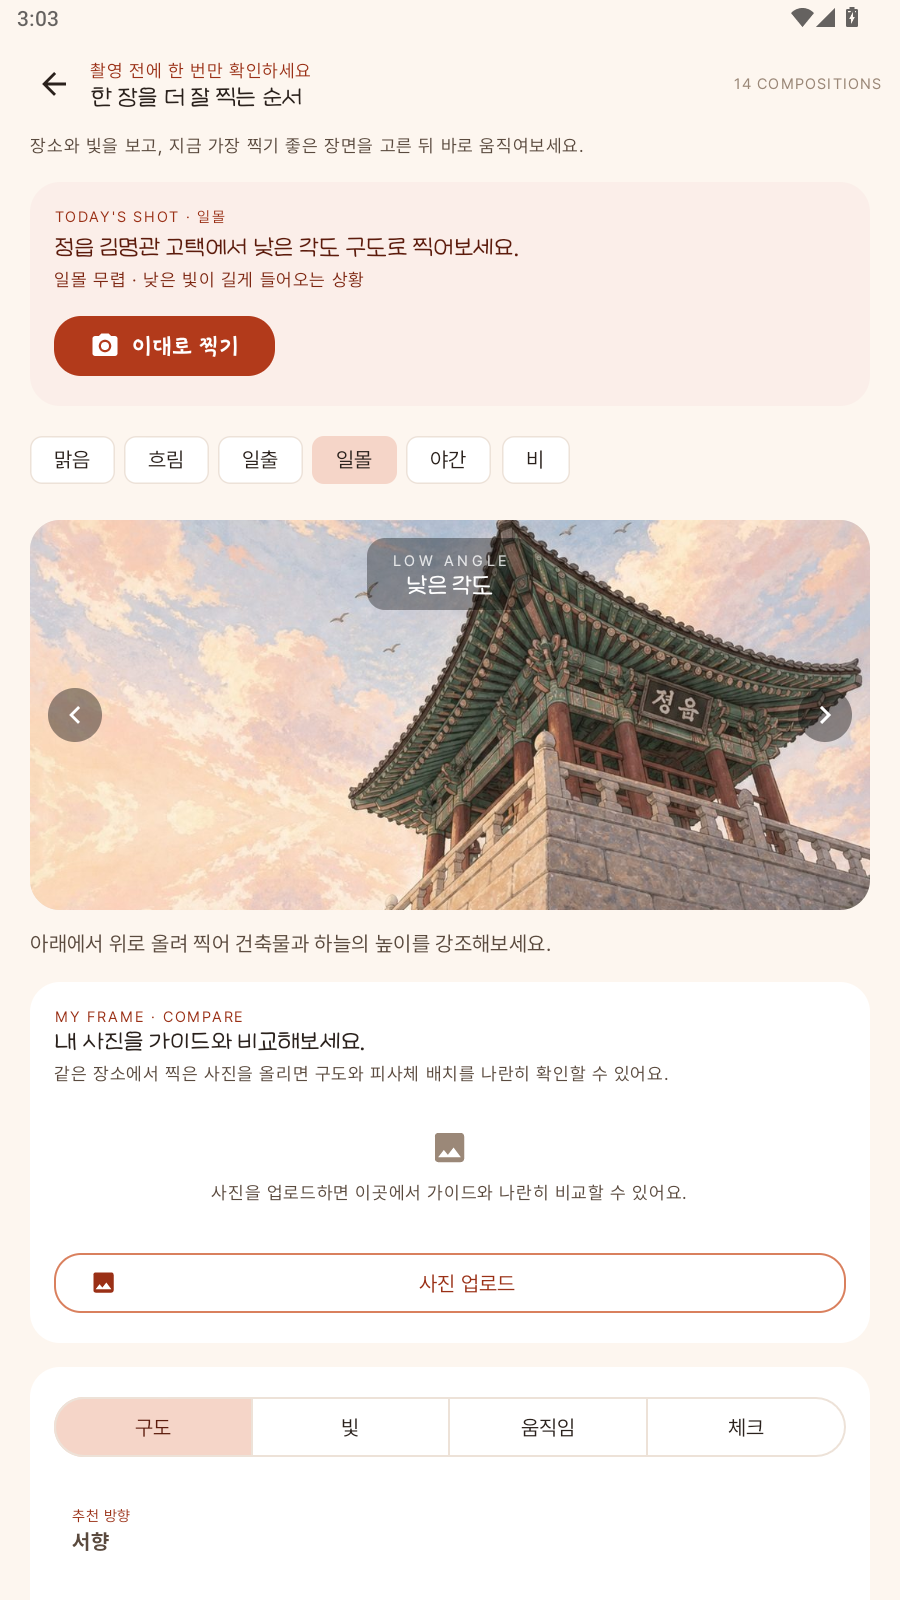
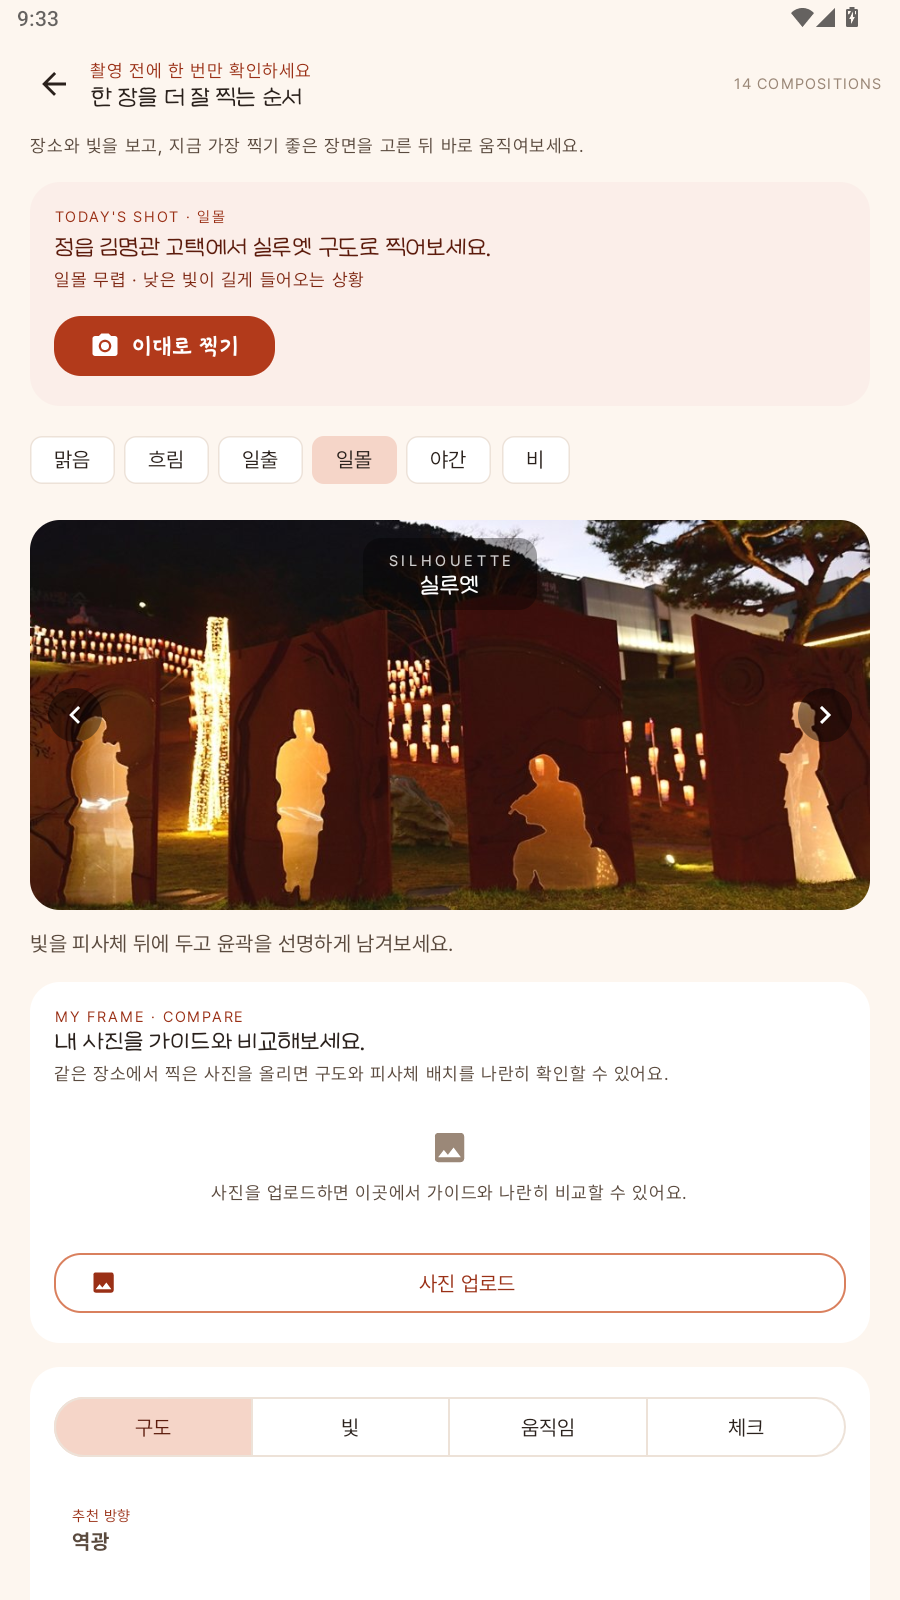
feat: 시선 가이드 실사진 교체, 캘린더 날짜 선택, 프레임 장소 이름 편집
- 시선 가이드 구도 예시 10장을 전부 관광공사 실사진으로 교체
  (실루엣 정읍사공원 야간 조형 · 반사 용산저수지 · 리딩라인 단풍생태공원
  터널 · 프레임 김명관 고택 · 탑뷰 구절초 정원 항공 등)
- 촬영 캘린더: 날짜를 누르면 그날에 맞는 피사체로 히어로가 바뀜,
  선택 날짜는 테두리 원으로 표시, 배지는 그날 기준 D-day
- 포토 프레임: 손그림 폴라로이드에서 장소 이름 바꾸기 버튼 추가
  (장소명이 안 찍히는 아트워크 프레임에서는 숨김)
- 리드미 §7·§9·§11 갱신, 시선 가이드 캡처 교체

Changed region(s): [[0.0311, 0.3125, 0.9644, 0.5938], [0.28, 0.125, 0.56, 0.1875], [0.0933, 0.9375, 0.1244, 0.9688]]

diff --git a/app/src/main/java/com/youngs/picview/ui/frame/PhotoFrameActivity.kt b/app/src/main/java/com/youngs/picview/ui/frame/PhotoFrameActivity.kt
@@ -89,6 +89,9 @@ class PhotoFrameActivity : AppCompatActivity() {
     /** 테마·모드별 아트워크. 디코드를 렌더마다 반복하지 않으려는 캐시입니다. */
     private val artworkCache = mutableMapOf<Pair<FrameTheme, Mode>, FrameArtwork?>()
 
+    /** 폴라로이드에 찍히는 장소 이름. 사용자가 직접 바꿀 수 있습니다. */
+    private var placeName: String? = null
+
     /**
      * 색감 필터에서 돌아오면 원본을 물들인 것으로 갈아 끼웁니다.
      * 비트맵은 인텐트에 담기엔 커서 캐시 파일 경로로 주고받습니다.
@@ -163,8 +166,39 @@ class PhotoFrameActivity : AppCompatActivity() {
             if (mode == Mode.SINGLE) pickSingle.launch("image/*")
             else pickMultiple.launch("image/*")
         }
+        placeName = intent.getStringExtra(EXTRA_PLACE)
+        binding.btnFramePlace.setOnClickListener { showPlaceDialog() }
+
         binding.btnFrameSave.setOnClickListener { save(share = false) }
         binding.btnFrameShare.setOnClickListener { save(share = true) }
+    }
+
+    /** 장소 이름 입력 — 폴라로이드 아랫단에 그대로 찍힙니다. */
+    private fun showPlaceDialog() {
+        val input = android.widget.EditText(this).apply {
+            setText(placeName.orEmpty())
+            hint = getString(R.string.frame_edit_place_hint)
+            setSelection(text.length)
+        }
+        val container = android.widget.FrameLayout(this).apply {
+            setPadding(dp(20), dp(8), dp(20), 0)
+            addView(
+                input,
+                android.widget.FrameLayout.LayoutParams(
+                    android.view.ViewGroup.LayoutParams.MATCH_PARENT,
+                    android.view.ViewGroup.LayoutParams.WRAP_CONTENT
+                )
+            )
+        }
+        com.google.android.material.dialog.MaterialAlertDialogBuilder(this)
+            .setTitle(R.string.frame_edit_place_title)
+            .setView(container)
+            .setPositiveButton(R.string.confirm) { _, _ ->
+                placeName = input.text.toString().trim()
+                renderPreview()
+            }
+            .setNegativeButton(R.string.cancel, null)
+            .show()
     }
 
     private fun applyInsets() {
@@ -185,9 +219,20 @@ class PhotoFrameActivity : AppCompatActivity() {
     private fun setupSwatches() {
         adapter = FrameSwatchAdapter { picked ->
             theme = picked
+            updatePlaceButton()
             renderPreview()
         }
         binding.rvFrames.adapter = adapter
+    }
+
+    /**
+     * 장소 이름 버튼은 장소명이 실제로 찍히는 프레임에서만 보입니다 —
+     * 아트워크 프레임은 제 표제를 갖고 있어 장소명을 그리지 않습니다.
+     */
+    private fun updatePlaceButton() {
+        val drawsPlace = mode == Mode.SINGLE &&
+            artworkCache.getOrPut(theme to Mode.SINGLE) { FrameArtwork.single(this, theme) } == null
+        binding.btnFramePlace.isVisible = drawsPlace
     }
 
     private fun setupModeToggle() {
@@ -206,6 +251,7 @@ class PhotoFrameActivity : AppCompatActivity() {
         )
         // 색감 필터는 한 장짜리 흐름입니다. 네컷에서는 숨겨 헷갈리지 않게 합니다.
         binding.btnFrameColor.isVisible = mode == Mode.SINGLE
+        updatePlaceButton()
     }
 
     // ─────────────────────── 미리보기 ───────────────────────
@@ -277,7 +323,7 @@ class PhotoFrameActivity : AppCompatActivity() {
         return PolaroidComposer.compose(
             photo = photo,
             theme = theme,
-            place = intent.getStringExtra(EXTRA_PLACE).orEmpty().ifBlank { getString(R.string.app_name) },
+            place = placeName.orEmpty().ifBlank { getString(R.string.app_name) },
             dateText = date,
             credit = getString(R.string.frame_credit),
             titleTypeface = ResourcesCompat.getFont(this, R.font.mapo_backpacking),

diff --git a/app/src/main/java/com/youngs/picview/ui/calendar/CalendarFragment.kt b/app/src/main/java/com/youngs/picview/ui/calendar/CalendarFragment.kt
@@ -64,6 +64,9 @@ class CalendarFragment : Fragment(R.layout.fragment_calendar) {
 
         setupMonthNav()
 
+        // 날짜를 누르면 그날에 맞는 피사체로 히어로가 바뀝니다.
+        binding.viewMonthGrid.onDayClick = { day -> onDaySelected(shownMonth.atDay(day)) }
+
         // 지금 계절부터 보여 줍니다. 1월에 봄부터 보여 주면 쓸모가 없습니다.
         val now = Season.now()
         binding.chipsSeason.check(chipOf(now))
@@ -135,6 +138,9 @@ class CalendarFragment : Fragment(R.layout.fragment_calendar) {
         binding.tvMonthLabel.text =
             getString(R.string.calendar_month_title, shownMonth.monthValue)
 
+        // 달이 바뀌면 이전 달에서 고른 날짜 표시는 지웁니다.
+        binding.viewMonthGrid.selectedDay = null
+
         val marked = mutableSetOf<Int>()
         val recommended = mutableSetOf<Int>()
         SeasonHighlights.ALL.forEach { highlight ->
@@ -177,9 +183,30 @@ class CalendarFragment : Fragment(R.layout.fragment_calendar) {
         val next = candidates.firstOrNull { it.isPeakNow(today) }
             ?: candidates.minByOrNull { it.daysUntilPeak(today) }
             ?: return
+        renderHeadlineFor(next, today)
+    }
+
+    /**
+     * 달력 날짜를 누르면 그날에 맞는 피사체로 히어로를 바꿉니다.
+     *
+     * 그날이 절정인 피사체를 먼저, 없으면 그날 기준으로 절정이 가장 가까운
+     * 피사체를 올립니다. 계절 칩은 건드리지 않습니다 — 칩을 바꾸면 달력이
+     * 그 계절의 달로 넘어가 버려, 보고 있던 달력이 발밑에서 움직입니다.
+     */
+    private fun onDaySelected(date: LocalDate) {
+        binding.viewMonthGrid.selectedDay = date.dayOfMonth
+        val highlight = SeasonHighlights.ALL.firstOrNull { inPeak(it, date) }
+            ?: SeasonHighlights.ALL.minByOrNull { it.daysUntilPeak(date) }
+            ?: return
+        renderHeadlineFor(highlight, date)
+    }
+
+    /** [date] 기준으로 히어로 카드를 채웁니다. 오늘이면 문구가 기존과 같습니다. */
+    private fun renderHeadlineFor(next: SeasonHighlight, date: LocalDate) {
+        val today = LocalDate.now()
 
         binding.ivCalendarHero.setImageResource(
-            when (season) {
+            when (next.season) {
                 Season.SPRING -> R.drawable.season_spring
                 Season.SUMMER -> R.drawable.season_summer
                 Season.AUTUMN -> R.drawable.season_autumn
@@ -187,10 +214,18 @@ class CalendarFragment : Fragment(R.layout.fragment_calendar) {
             }
         )
 
-        binding.tvCalendarDday.text = if (next.isPeakNow(today)) {
-            getString(R.string.calendar_peak_now)
-        } else {
-            getString(R.string.calendar_dday, next.daysUntilPeak(today))
+        val fmt = DateTimeFormatter.ofPattern("M월 d일", Locale.KOREAN)
+        binding.tvCalendarDday.text = when {
+            date == today ->
+                if (next.isPeakNow(today)) getString(R.string.calendar_peak_now)
+                else getString(R.string.calendar_dday, next.daysUntilPeak(today))
+            next.isPeakNow(date) ->
+                getString(R.string.calendar_selected_peak, date.format(fmt))
+            else ->
+                getString(
+                    R.string.calendar_selected_dday,
+                    date.format(fmt), next.daysUntilPeak(date)
+                )
         }
         binding.tvCalendarNowTitle.text = next.title
         binding.tvCalendarNowPeriod.text = periodText(next)

diff --git a/app/src/main/java/com/youngs/picview/ui/calendar/MonthGridView.kt b/app/src/main/java/com/youngs/picview/ui/calendar/MonthGridView.kt
@@ -52,8 +52,21 @@ class MonthGridView @JvmOverloads constructor(
             invalidate()
         }
 
+    /** 눌러서 고른 날짜. 단풍색 테두리 원으로 표시합니다. */
+    var selectedDay: Int? = null
+        set(value) {
+            field = value
+            invalidate()
+        }
+
+    /** 날짜 칸을 눌렀을 때. 인자는 그 달의 일(day of month). */
+    var onDayClick: ((Int) -> Unit)? = null
+
     private val dayPaint = Paint(Paint.ANTI_ALIAS_FLAG).apply {
         textAlign = Paint.Align.CENTER
+    }
+    private val selectedPaint = Paint(Paint.ANTI_ALIAS_FLAG).apply {
+        style = Paint.Style.STROKE
     }
     private val headerPaint = Paint(Paint.ANTI_ALIAS_FLAG).apply {
         textAlign = Paint.Align.CENTER
@@ -127,6 +140,13 @@ class MonthGridView @JvmOverloads constructor(
                 canvas.drawCircle(cx, cy - rowH * 0.16f, rowH * 0.34f, todayPaint)
             }
 
+            // 눌러서 고른 날은 테두리 원. 오늘 원과 겹치면 오늘이 이깁니다.
+            if (day == selectedDay && !isToday) {
+                selectedPaint.color = maple
+                selectedPaint.strokeWidth = 1.5f * density
+                canvas.drawCircle(cx, cy - rowH * 0.16f, rowH * 0.34f, selectedPaint)
+            }
+
             dayPaint.color = when {
                 isToday -> white
                 col == 0 -> maple            // 일요일
@@ -147,6 +167,43 @@ class MonthGridView @JvmOverloads constructor(
                 }
             }
         }
+    }
+
+    /**
+     * 날짜 칸 터치 → [onDayClick].
+     *
+     * 셀 좌표 계산의 역연산 하나라 제스처 디텍터 없이 처리합니다.
+     * 요일 머리 줄(0행)과 빈 칸은 무시합니다.
+     */
+    override fun onTouchEvent(event: android.view.MotionEvent): Boolean {
+        if (onDayClick == null) return super.onTouchEvent(event)
+        when (event.actionMasked) {
+            android.view.MotionEvent.ACTION_DOWN -> return true
+            android.view.MotionEvent.ACTION_UP -> {
+                dayAt(event.x, event.y)?.let { day ->
+                    onDayClick?.invoke(day)
+                    performClick()
+                }
+                return true
+            }
+        }
+        return super.onTouchEvent(event)
+    }
+
+    override fun performClick(): Boolean {
+        super.performClick()
+        return true
+    }
+
+    private fun dayAt(x: Float, y: Float): Int? {
+        val cellW = width / 7f
+        val rowH = ROW_HEIGHT_DP * density
+        val col = (x / cellW).toInt().coerceIn(0, 6)
+        val row = (y / rowH).toInt()
+        if (row < 1) return null
+        val firstOffset = yearMonth.atDay(1).dayOfWeek.value % 7
+        val day = (row - 1) * 7 + col - firstOffset + 1
+        return day.takeIf { it in 1..yearMonth.lengthOfMonth() }
     }
 
     private val density: Float get() = resources.displayMetrics.density

diff --git a/README.md b/README.md
@@ -361,7 +361,9 @@
   프레임으로, 삼분할 장소는 물가면 반사·해질 무렵이면 실루엣·그 외에는
   리딩라인으로. 상황 칩(맑음·흐림·일출·일몰·야간·비)을 바꾸면 아래 빛
   조언이 함께 바뀝니다
-- **구도 14종 캐러셀** — 낮은 각도부터 시점 전환까지. 사진 위에 영어
+- **구도 14종 캐러셀** — 낮은 각도부터 시점 전환까지. 예시 사진은 전부
+  정읍의 **관광공사 실사진**입니다(실루엣은 정읍사공원의 야간 인물 조형,
+  반사는 용산저수지, 리딩라인은 단풍생태공원 터널…). 사진 위에 영어
   구도 코드와 한글 구도명만 얹고, 넘기면 화면의 모든 설명(설명·방향·팁·
   시그널 카드)이 함께 갱신됩니다
 - **내 사진 비교** — 같은 장소에서 찍은 사진을 올리면 가이드 컷과
@@ -435,7 +437,10 @@
   아트워크의 창 배치를 따릅니다. 사진이 네 장보다 적으면 남는 칸은
   빈 인화지에 옅은 순번만 둡니다 — 더 채울 수 있다는 뜻이니까요
 - 무성서원 1컷 아트워크는 아직 없어 기존 코드 폴라로이드(이중 금선 ·
-  구름 문양 · 수묵 산세 · 장소명 · 날짜)로 그립니다
+  구름 문양 · 수묵 산세 · 장소명 · 날짜)로 그립니다. 이 프레임에서는
+  **장소 이름 바꾸기** 버튼으로 폴라로이드에 찍히는 장소명을 직접
+  고칠 수 있습니다 — 장소명이 그려지지 않는 아트워크 프레임에서는
+  버튼 자체를 숨깁니다
 - 다른 앱에서 **"공유 → 정읍 시선"** 으로 사진을 보낼 수도 있습니다
 
 ### 10. 미션 · 스탬프북 — 방문이 아니라 장면을 센다
@@ -494,7 +499,10 @@
   최고점입니다. "오늘 어딘가는 이만큼 나온다"가 평균보다 나갈 이유를
   잘 말해 줍니다
 - **N월 촬영 캘린더** — 절정(단풍색)과 절정 앞뒤 닷새의 추천(황금색)을
-  점으로 구분합니다
+  점으로 구분합니다. **날짜를 누르면 그날에 맞는 피사체로 히어로가
+  바뀝니다** — 그날이 절정인 피사체를 먼저, 없으면 그날 기준으로 절정이
+  가장 가까운 피사체를 올리고, 배지가 `8월 26일 기준 D-25`처럼 그날
+  기준으로 말합니다. 고른 날짜는 테두리 원으로 표시됩니다
 - 홈에서는 오른쪽 위 **날짜 알약**과 퀵 액션의 **캘린더**로 들어옵니다
 - 계절을 고르면 **그 계절의 색**으로 켜집니다. 봄은 벚꽃 분홍, 여름은
   내장산 신록의 초록, 가을은 은행잎 주황, 겨울은 얼음의 시린 파랑.
